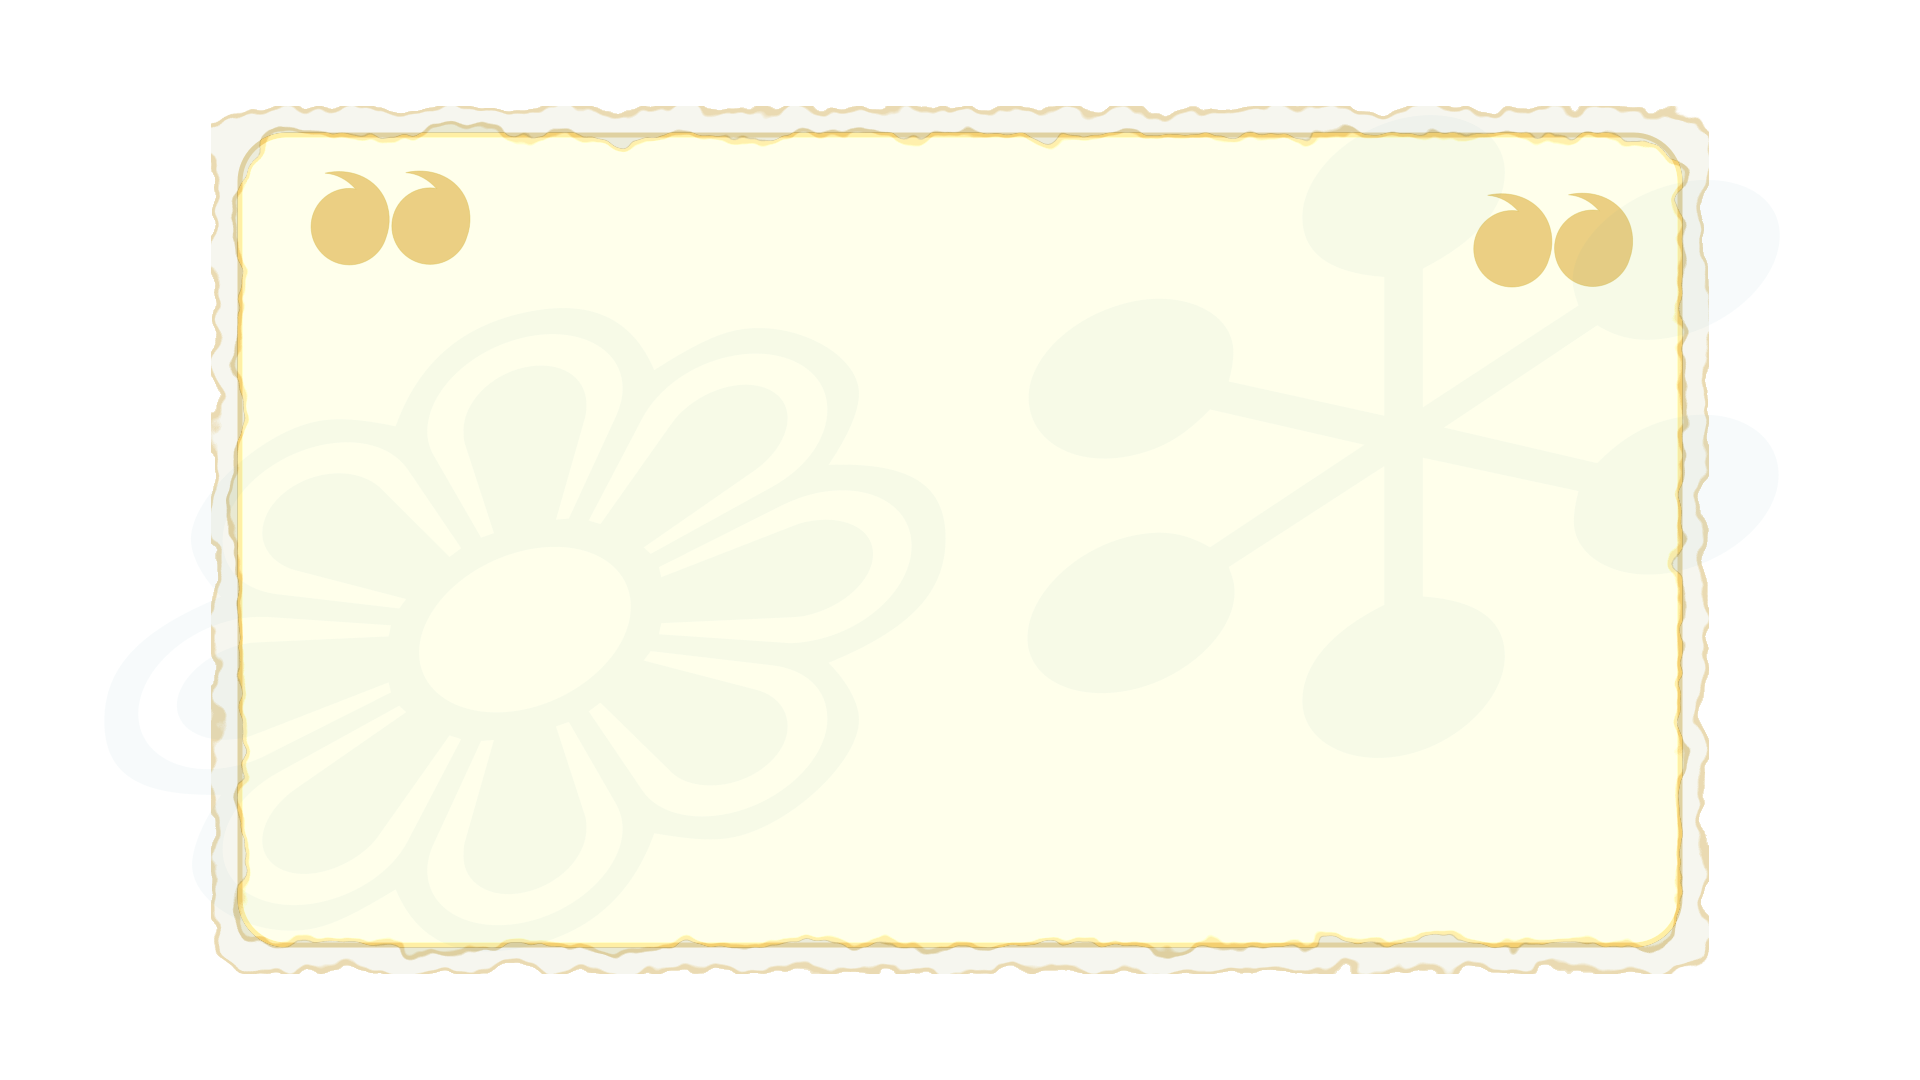
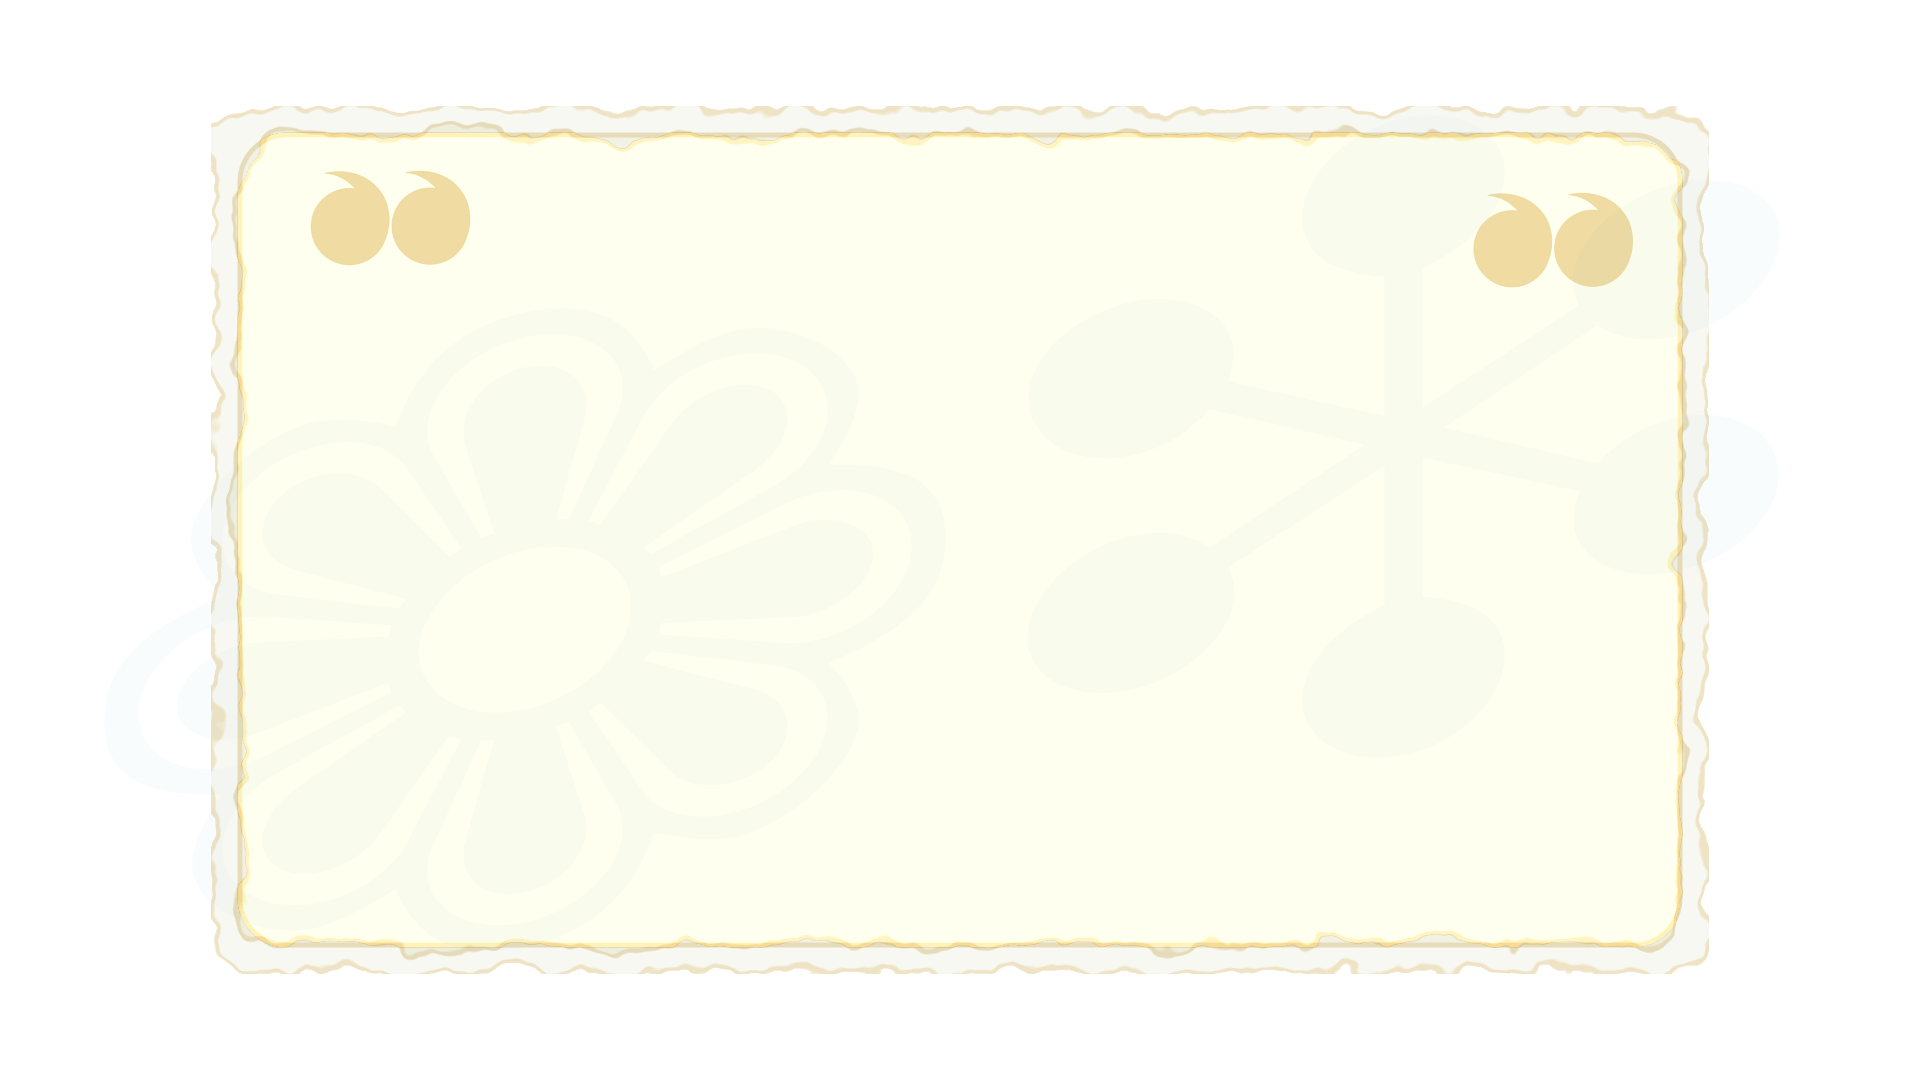
feat: Remove school type feature, refactor timer mechanism, and enhance UI settings for message timeout and size.

diff --git a/bilgi_penceresi.py b/bilgi_penceresi.py
@@ -28,15 +28,14 @@ class AyarPenceresi(tk.Tk):
         self.withdraw()  # Pencereyi gizle
 
         # Varsayılan ayarlar
-        self.settings = {
-            "okul_turu": "ilkokul",
-            "zaman_asimi_dakika": 1,
+        self.settings = { 
+            "zaman_asimi_dakika": 120,
             "mesaj_konumu": "merkez",
             "boyut_yuzde": 25
         }
 
         self.json_yukle()
-        self.timer_aktif = False
+        self.timer_stop_event = None
         self.timer_thread = None
 
         # Tray ikonu veya kontrol penceresi
@@ -68,42 +67,45 @@ class AyarPenceresi(tk.Tk):
         self.arayuz()
 
     def baslat_timer(self):
-        """Zamanlayıcıyı başlat"""
-        if not self.timer_aktif:
-            self.timer_aktif = True
-            self.timer_thread = threading.Thread(target=self.timer_loop, daemon=True)
-            self.timer_thread.start()
+        """Zamanlayıcıyı başlat veya yeniden başlat"""
+        if self.timer_stop_event:
+            self.timer_stop_event.set()
+        
+        self.timer_stop_event = threading.Event()
+        self.timer_thread = threading.Thread(target=self.timer_loop, args=(self.timer_stop_event,), daemon=True)
+        self.timer_thread.start()
 
-    def timer_loop(self):
+    def timer_loop(self, stop_event):
+        """Arkaplanda sürekli çalışan zamanlayıcı"""
         if not os.path.exists(os.path.join(os.path.dirname(__file__), "data", "data.json")):
             print("data.json dosyası yok, timer_loop fonksiyonu sonlandırılıyor...")
             return
-        """Arkaplanda sürekli çalışan zamanlayıcı"""
-        while self.timer_aktif:
+
+        while not stop_event.is_set():
             try:
                 # Ayarları yükle
                 with open(AYAR_DOSYASI, 'r', encoding='utf-8') as f:
                     settings = json.load(f)
 
                 # zaman_asimi_dakika'i saniyeye çevir
-                saniye = settings.get('zaman_asimi_dakika', 1) * 1
+                saniye = settings.get('zaman_asimi_dakika', 1) 
 
-                 
+                # Ayarlanmış süre kadar bekle (veya durdurulana kadar)
+                if stop_event.wait(saniye):
+                    break
 
-                # Ayarlanmış süre kadar bekle
-                time.sleep(saniye)
- 
-                if self.timer_aktif: 
+                if not stop_event.is_set():
                     subprocess.run([sys.executable, os.path.join(os.path.dirname(__file__), "create_image.py")])
-                   
 
             except Exception as e:
                 print(f"✗ Hata: {e}")
-                time.sleep(5)
+                if stop_event.wait(5):
+                    break
 
     def on_closing(self):
         """Pencere kapatılırken"""
-        self.timer_aktif = False
+        if self.timer_stop_event:
+            self.timer_stop_event.set()
         self.destroy()
 
     # ---------------------------------------------------------------------
@@ -111,10 +113,10 @@ class AyarPenceresi(tk.Tk):
     def arayuz(self):
 
         # Arka plan
-        self.config(bg="#34495e")
+        # Pencere varsayılanı kullanılacak
 
         # Kapatma düğmesi (sol üst köşe)
-        kapat_frame = tk.Frame(self, bg="#34495e")
+        kapat_frame = tk.Frame(self)
         kapat_frame.pack(side="top", anchor="nw", padx=5, pady=5)
 
         # GİZLE DÜĞMESİ
@@ -124,38 +126,17 @@ class AyarPenceresi(tk.Tk):
             command=self.withdraw  # Pencereyi gizler
         )
         gizle_buton.pack(side="left")
+ 
 
-        ana_frame = tk.Frame(self, bg="#138d90", padx=15, pady=15)
-        ana_frame.pack(pady=20)
-
-        ic_frame = tk.Frame(ana_frame, bg="#aeb6bf", padx=15, pady=15)
+        ic_frame = tk.Frame(self, padx=15, pady=35)
         ic_frame.pack()
-
-        # ---------------------------------------------------------------
-        # OKUL TÜRÜ
-        # ---------------------------------------------------------------
-
-        baslik1 = tk.Label(ic_frame, text="Okul Türü Seçin",
-                           font=("Arial", 12, "bold"), bg="#aeb6bf")
-        baslik1.pack()
-
-        self.okul_var = tk.StringVar(value=self.settings["okul_turu"])
-
-        for tur in ["ilkokul", "ortaokul", "lise"]:
-            ttk.Radiobutton(ic_frame, text=tur,
-                            value=tur,
-                            variable=self.okul_var,
-                            command=lambda t=tur: self.set_okul_turu(t)
-                            ).pack(anchor="w", pady=2)
-
-        ttk.Separator(ic_frame).pack(fill="x", pady=10)
 
         # ---------------------------------------------------------------
         # ZAMAN AŞIMI (Dakika)
         # ---------------------------------------------------------------
 
         tk.Label(ic_frame, text="Zaman Aşımı (dakika)",
-                 font=("Arial", 12, "bold"), bg="#aeb6bf").pack()
+                 font=("Arial", 12, "bold")).pack(anchor="w")
 
         self.zaman_slider = ttk.Scale(
             ic_frame, from_=1, to=60, orient="horizontal",
@@ -165,21 +146,20 @@ class AyarPenceresi(tk.Tk):
 
         self.zaman_label = tk.Label(
             ic_frame,
-            text=f"{self.settings['zaman_asimi_dakika']} Dakika",
-            bg="#aeb6bf"
+            text=f"{self.settings['zaman_asimi_dakika']} Dakika"
         )
         self.zaman_label.pack()
 
         self.zaman_slider.set(self.settings["zaman_asimi_dakika"])
 
-        ttk.Separator(ic_frame).pack(fill="x", pady=10)
+        ttk.Separator(ic_frame).pack(fill="x", pady=30)
 
         # ---------------------------------------------------------------
         # MESAJ KONUMU
         # ---------------------------------------------------------------
 
-        tk.Label(ic_frame, text="Mesaj Konumu",
-                 font=("Arial", 12, "bold"), bg="#aeb6bf").pack()
+        tk.Label(ic_frame, text="Bilgi Kutusu Konumu",
+                 font=("Arial", 12, "bold")).pack(pady=10,anchor="w")
 
         self.mesaj_konum_var = tk.StringVar(
             value=self.settings["mesaj_konumu"])
@@ -192,24 +172,34 @@ class AyarPenceresi(tk.Tk):
             "merkez"
         ]
 
+        konum_etiketleri = {
+            "ust_sol_kose": "Sol Üst Köşe",
+            "ust_sag_kose": "Sağ Üst Köşe",
+            "alt_sol_kose": "Sol Alt Köşe",
+            "alt_sag_kose": "Sağ Alt Köşe",
+            "merkez": "Merkez"
+        }
+
         for k in konumlar:
-            ttk.Radiobutton(ic_frame, text=k,
+            txt = konum_etiketleri.get(k, k)
+            ttk.Radiobutton(ic_frame, 
+                            text=txt,
                             value=k,
                             variable=self.mesaj_konum_var
                             ).pack(anchor="w", pady=2)
 
-        ttk.Separator(ic_frame).pack(fill="x", pady=10)
+        ttk.Separator(ic_frame).pack(fill="x", pady=30)
 
         # ---------------------------------------------------------------
         # BOYUT (%)
         # ---------------------------------------------------------------
 
-        tk.Label(ic_frame, text="Boyut (%)",
-                 font=("Arial", 12, "bold"), bg="#aeb6bf").pack()
+        tk.Label(ic_frame, text="Kutu Boyutu (%)",
+                 font=("Arial", 12, "bold")).pack(pady=10,anchor="w")
 
         self.boyut_slider = ttk.Scale(
             ic_frame,
-            from_=25,
+            from_=10,
             to=100,
             orient="horizontal",
             command=lambda x: self.update_boyut_label()
@@ -218,8 +208,7 @@ class AyarPenceresi(tk.Tk):
 
         self.boyut_label = tk.Label(
             ic_frame,
-            text=f"%{self.settings['boyut_yuzde']}",
-            bg="#aeb6bf"
+            text=f"%{self.settings['boyut_yuzde']}"
         )
         self.boyut_label.pack()
 
@@ -234,12 +223,7 @@ class AyarPenceresi(tk.Tk):
 
  
 
-    # ---------------------------------------------------------------------
-
-    def set_okul_turu(self, tur):
-        self.settings["okul_turu"] = tur
-
-    # ---------------------------------------------------------------------
+ 
 
     def update_zaman_label(self):
         dakika = int(float(self.zaman_slider.get()))
@@ -250,10 +234,10 @@ class AyarPenceresi(tk.Tk):
 
     def update_boyut_label(self):
         raw = float(self.boyut_slider.get())
-        yuvarlak = int(round(raw / 25) * 25)  # 25, 50, 75, 100
+        yuvarlak = int(round(raw / 5) * 5)  # 5, 10, 15, 20, 25, 30, 35, 40, 45, 50, 55, 60, 65, 70, 75, 80, 85, 90, 95, 100
 
-        # 25–100 arasında tut
-        yuvarlak = max(25, min(100, yuvarlak))
+        # 10 arasında tut
+        yuvarlak = max(10, min(100, yuvarlak))
 
         self.boyut_label.config(text=f"%{yuvarlak}")
         self.settings["boyut_yuzde"] = yuvarlak
@@ -270,9 +254,9 @@ class AyarPenceresi(tk.Tk):
         if not os.path.exists(os.path.join(os.path.dirname(__file__), "data", "data.json")):
             subprocess.run([sys.executable, os.path.join(os.path.dirname(__file__), "excel2json.py")])
 
-
         messagebox.showinfo("Bilgi", "Ayarlar kaydedildi.")
-        subprocess.run([sys.executable, os.path.join(os.path.dirname(__file__), "create_image.py")])
+        self.baslat_timer() # Zamanlayıcıyı yeni ayarlarla başlat
+        
 
     # ---------------------------------------------------------------------
 

diff --git a/create_image.py b/create_image.py
@@ -124,9 +124,8 @@ def get_image_path(result):
         return None
     else:
         image_name = image_name.replace(" ", "_")
-
-    okul_turu = load_settings('okul_turu')
-    return os.path.join(os.path.dirname(os.path.abspath(__file__)), f"data/{okul_turu}/resimler/{image_name}")
+ 
+    return os.path.join(os.path.dirname(os.path.abspath(__file__)), f"data/okul/resimler/{image_name}")
 
 
 def load_settings(ayar):
@@ -647,9 +646,9 @@ def main():
     if image_path and os.path.exists(image_path):
         create_new_image(image_path, result)
     else:
-        okul_turu = load_settings('okul_turu')
+         
         # Resim dizinini oluştur
-        resimler_dizini = os.path.join(os.path.dirname(os.path.abspath(__file__)), f"data/{okul_turu}/resimler")
+        resimler_dizini = os.path.join(os.path.dirname(os.path.abspath(__file__)), f"data/okul/resimler")
 
         # Dizindeki tüm resimleri listele
         resim_listesi = [f for f in os.listdir(resimler_dizini) if f.lower().endswith(('.png', '.jpg', '.jpeg'))]

diff --git a/excel2json.py b/excel2json.py
@@ -108,9 +108,8 @@ if __name__ == "__main__":
     script_dir = os.path.dirname(os.path.abspath(__file__))
     data_folder = os.path.join(script_dir, "data")
 
-    # data/ilkokul dizinindeki data.xlsx dosyasını dönüştür
-    okul_turu = load_settings('okul_turu')
-    excel_path = f"{data_folder}/{okul_turu}/data.xlsx"
+    # data/okul dizinindeki data.xlsx dosyasını dönüştür 
+    excel_path = f"{data_folder}/okul/data.xlsx"
 
     # Dosyanın var olup olmadığını kontrol et
     if os.path.exists(excel_path):
